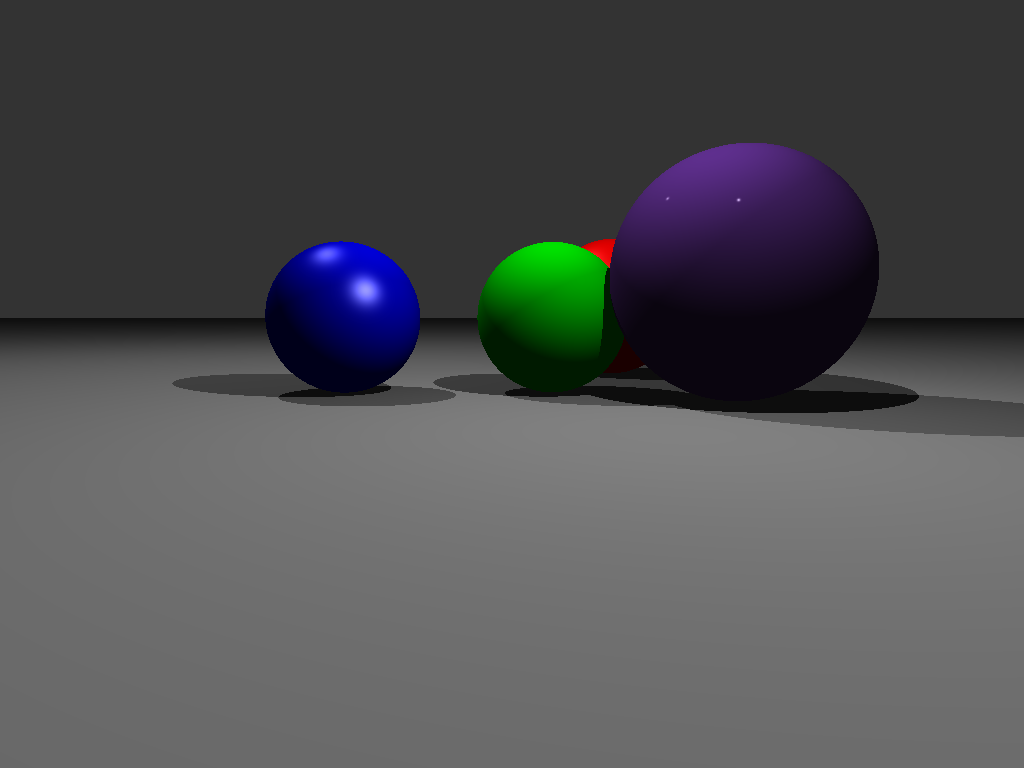
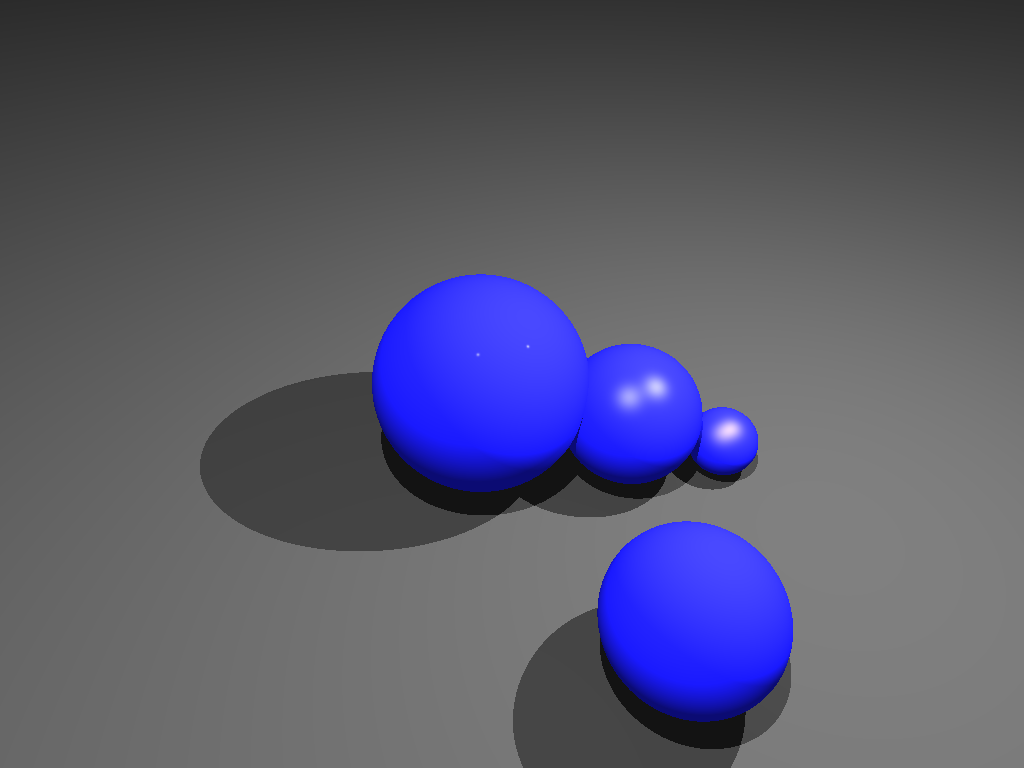
ready for stage 3

diff --git a/src/main.rs b/src/main.rs
@@ -28,7 +28,7 @@ fn main() {
     //creating the scene based on our background
     let mut scenes = Scene::new(background, Vec3::splat(0.1));
     let mut scene2 = Scene::new(background, Vec3::splat(0.2));
-    let mut scene3 = Scene::new(background, Vec3::splat(0.5));
+    let mut scene3 = Scene::new(background, Vec3::splat(0.15));
     
     //creating the light or lights that will be used in the image
     let light1 = Light::new(Vec3::new(5.0, 5.0, -2.0), Vec3::splat(0.6));
@@ -38,20 +38,20 @@ fn main() {
     scenes.add_lights(light1);
     scenes.add_lights(light2);
 
-    scene2.add(light3);
-    scene2.add(light1);
+    scene2.add_lights(light3);
+    scene2.add_lights(light1);
 
-    scene3.add(light2);
-    scene3.add(light3);
+    scene3.add_lights(light2);
+    scene3.add_lights(light3);
 
 
     //making the spherers that will be used in the image
 
     //setting the vlaues for the new sphers
-    let tran1 = Transform::new(Vec3::new(-1.0, 1.2, -5.0), Quat::IDENTITY, Vec3::splat(1.2));
+    let tran1 = Transform::new(Vec3::new(-1.0, 0.5, -3.0), Quat::IDENTITY, Vec3::splat(0.6));
     let tran2 = Transform::new(Vec3::new(1.2, 1.0, -2.5), Quat::IDENTITY, Vec3::splat(1.0));
     let tran3 = Transform::new(Vec3::new(0.0,1.0,0.0), Quat::IDENTITY, Vec3::splat(1.0));
-    let tran5 = Transform::new(Vec3::new(3.0, 1.5, -4.0), Quat::IDENTITY, Vec3::splat(1.5));
+    let tran5 = Transform::new(Vec3::new(1.0, 1.0, 1.0), Quat::IDENTITY, Vec3::splat(1.0));
     let mat1 = Material::new(Vec3::new(1.0, 0.0, 0.0), Vec3::splat(0.8), 30.0);
     let mat2 = Material::new(Vec3::new(0.0, 1.0, 0.0), Vec3::ZERO, 1.0);
     let mat3 = Material::new(Vec3::new(0.0, 0.0, 1.0), Vec3::ONE, 50.0);
@@ -74,19 +74,50 @@ fn main() {
     let mut film = Film::new(1024, 768);
 
     //different camera angles to view the spheres from 
-    let cam = Camera::new(Vec3::new(0.0, 3.5, -6.0), Vec3::new(0.0, 0.0, -2.5), Vec3::Y, 
+    let cam = Camera::new(Vec3::new(1.0, 7.0, 6.0), Vec3::new(0.0, 0.0, -2.5), Vec3::Y, 
     60.0, film.aspect());
-    let cam1 = Camera::new(Vec3::new(0.0, 3.5, 4.0), Vec3::new(0.0, 0.0, -2.5), Vec3::Y, 
+    let cam1 = Camera::new(Vec3::new(9.0, 6.5, -3.0), Vec3::new(0.0, 0.0, -2.5), Vec3::Y, 
     60.0, film.aspect());
-    let cam2 = Camera::new(Vec3::new(9.0, 3.0, 2.0), Vec3::new(0.0, 0.0, -2.5), Vec3::Y, 
+    let cam2 = Camera::new(Vec3::new(-6.0, 7.5, 4.0), Vec3::new(0.0, 0.0, -2.5), Vec3::Y, 
     60.0, film.aspect());
 
     //render the images, showing all the hits and ray intersects
     render(&cam, &scenes, &mut film);
     film.save("render1.png");
-    render(&cam1, &scenes, &mut film);
+
+    let tran6 = Transform::new(Vec3::new(-3.0, 1.2, -2.0), Quat::IDENTITY, Vec3::splat(1.2));
+    let tran7 = Transform::new(Vec3::new(2.0, 1.0, 2.5), Quat::IDENTITY, Vec3::splat(1.0));
+    let tran8 = Transform::new(Vec3::new(0.0,1.0,0.0), Quat::IDENTITY, Vec3::splat(1.0));
+    let tran9 = Transform::new(Vec3::new(1.5, 1.3, -2.5), Quat::IDENTITY, Vec3::splat(1.5));
+    let mat6 = Material::new(Vec3::new(1.0, 0.0, 0.0), Vec3::splat(0.8), 100.0);
+    let mat7 = Material::new(Vec3::new(0.0, 1.0, 0.0), Vec3::ZERO, 1.0);
+    let mat8 = Material::new(Vec3::new(0.0, 0.0, 1.0), Vec3::ZERO, 1.0);
+    let mat9 = Material::new(Vec3::new(0.7, 0.6, 0.2), Vec3::new(1.0, 0.85, 0.45), 10000.0);
+
+    scene2.add(Sphere::new(tran6, mat6));
+    scene2.add(Sphere::new(tran7, mat7));
+    scene2.add(Sphere::new(tran8, mat8));
+    scene2.add(Sphere::new(tran9, mat9));
+
+    render(&cam1, &scene2, &mut film);
     film.save("render2.png");
-    render(&cam2, &scenes, &mut film);
+
+    let tran10 = Transform::new(Vec3::new(1.0, 0.5, 1.0), Quat::IDENTITY, Vec3::splat(0.5));
+    let tran11 = Transform::new(Vec3::new(-2.0, 1.0, 2.5), Quat::IDENTITY, Vec3::splat(1.0));
+    let tran12 = Transform::new(Vec3::new(0.0,1.0,0.0), Quat::IDENTITY, Vec3::splat(1.0));
+    let tran13 = Transform::new(Vec3::new(-1.5, 1.5, -1.5), Quat::IDENTITY, Vec3::splat(1.5));
+    let mat10 = Material::new(Vec3::new(0.3, 0.3, 3.0), Vec3::new(1.0, 0.85, 0.45), 20.0);
+    let mat11 = Material::new(Vec3::new(0.3, 0.3, 3.0), Vec3::ZERO, 1.0);
+    let mat12 = Material::new(Vec3::new(0.3, 0.3, 3.0), Vec3::ONE, 60.0);
+    let mat13 = Material::new(Vec3::new(0.3, 0.3, 3.0), Vec3::ONE, 10000.0);
+
+    scene3.add(Sphere::new(tran10, mat10));
+    scene3.add(Sphere::new(tran11, mat11));
+    scene3.add(Sphere::new(tran12, mat12));
+    scene3.add(Sphere::new(tran13, mat13));
+
+
+    render(&cam2, &scene3, &mut film);
     film.save("render3.png")
     
 }

diff --git a/src/sphere.rs b/src/sphere.rs
@@ -5,8 +5,8 @@ use crate::material::Material;
 
 pub struct Sphere{
 
-    mut transform: Transform, 
-    mut mat:       Material, 
+    transform: Transform, 
+    mat:       Material, 
 
 
 }
@@ -18,15 +18,6 @@ impl Sphere{
         Self{transform, mat}
     }
 
-    fn update_trans(transform: Transform) -> Self {
-
-        Self{transform, mat: &self.mat}
-    }
-
-    fn update_mat(mat: Material) -> Self{
-
-        Self{transform: &self.transform, mat}
-    }
 }
 
 impl Shape for Sphere{
